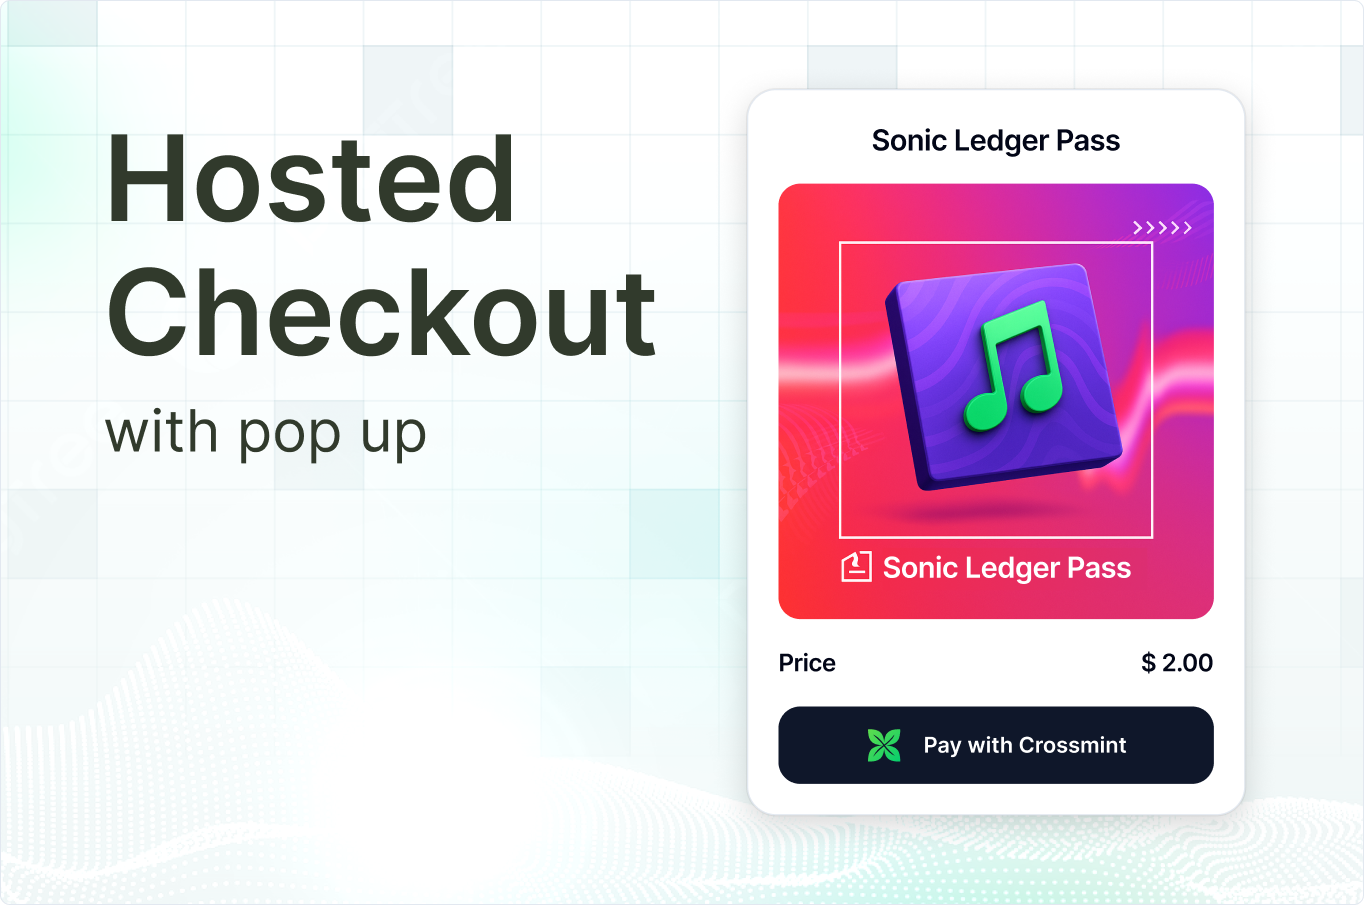
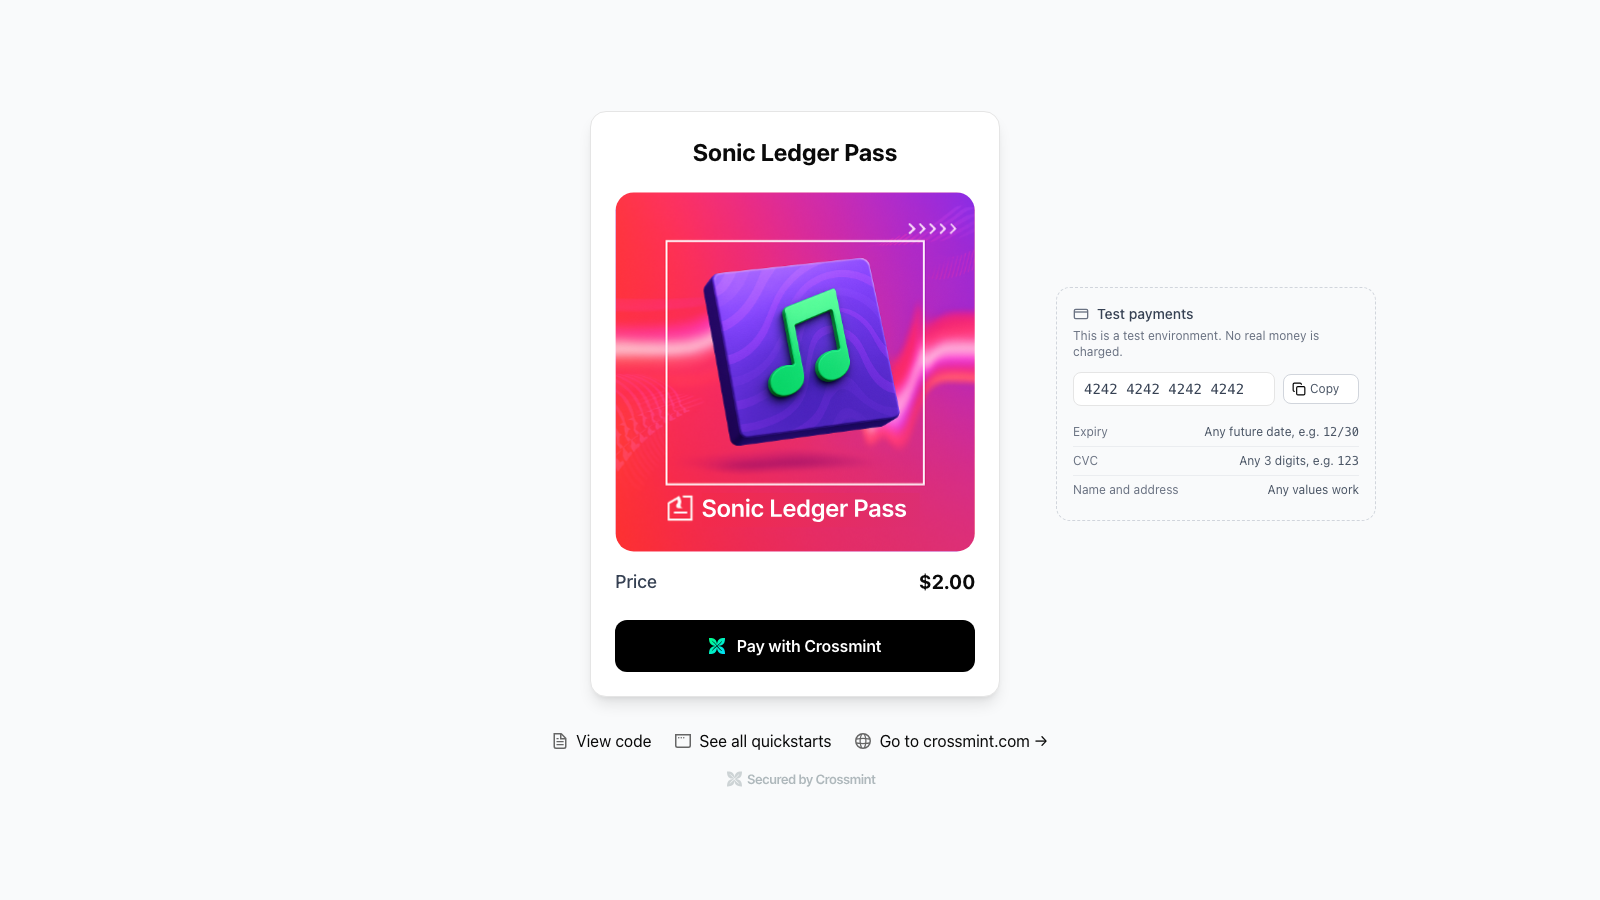
Refresh README screenshots with the new UI

diff --git a/README.md b/README.md
@@ -89,6 +89,10 @@ Easily deploy the template to Vercel with the button below. You will need to set
 
 ## How delivery detection works
 
+<div align="center">
+<img src="./assets/success.png" alt="Success screen with the mint transaction linked on the block explorer" width="600">
+</div>
+
 The hosted checkout runs on Crossmint's page, so this app doesn't receive a
 callback when the order completes. Instead, when the buyer opens the checkout,
 the app resolves the recipient email to its wallet address (via a draft order